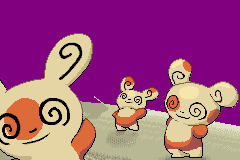
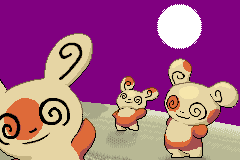
Title screen no longer has corrupted palettes
The problem with the palettes was that Tilemap Studio makes some very... ill-advised... decisions about how to handle palettes, and it seems to be abandonware, so those will probably never be fixed:

* It automatically sorts colors in order of descending brightness, optionally letting you control which color in the existing image is forced to be first.

* Its export to JASC-PAL is broken, emitting a 256-color palette with huge amounts of duplicate entries. Generally, hand-editing it to remove all but the last 16 colors will fix it.

* You get ONE chance to export a palette when converting an image to a tilemap. Forget, and you'll need to redo the entire conversion.

---

Aside from fixing the above, VRAM windows have been adjusted so that the background landscape isn't darkened; the blink rate on "PRESS START" was slowed; and the screen flashes to white before then showing the art. (Fades to and from white would be nice, but I'm out of time tonight.)

Changed region(s): [[0.6417, 0.0, 0.8458, 0.3125], [0.4083, 0.625, 0.4375, 0.6562], [0.3792, 0.5938, 0.4083, 0.625]]

diff --git a/src/title_screen.c b/src/title_screen.c
@@ -37,7 +37,7 @@ typedef struct {
    VRAMTilemap ashfall_tilemap;
    
    VRAMTile ALIGNED(BG_CHAR_SIZE) back_tiles[0xF0];
-   VRAMTile front_tiles[0x214];
+   VRAMTile front_tiles[0x229];
    VRAMTile ashfall;
 } VRAMTileLayout;
 
@@ -101,8 +101,8 @@ static const u32 sTitleScreenArtBgBackTilemap[] = INCBIN_U32("graphics/lu/title_
 
 static const u16 sPokemonLogoPalette[] = INCBIN_U16("graphics/title_screen/pokemon_logo.gbapal");
 static const u16 sTitleScreenBgArtPalettes[] = INCBIN_U16(
-   "graphics/lu/title_screen/art_back.gbapal",
-   "graphics/lu/title_screen/art_front.gbapal"
+   "graphics/lu/title_screen/art_back_tiles.gbapal",
+   "graphics/lu/title_screen/art_front_tiles.gbapal"
 );
 
 static const struct BgTemplate sBgTemplates[] = {
@@ -133,6 +133,13 @@ static const struct BgTemplate sBgTemplates[] = {
       .priority      = 2,
       .baseTile      = 0, // baseTile only works with LoadBgTiles, not for loading compressed tile(map)s
    },
+   //
+   // TODO: If BG layer 2 is an affine layer (which it is), then BG layer 3 can only 
+   //       be an affine layer or disabled. Affine is fine for our purposes -- we can 
+   //       look into adjusting its translation and scale that way -- but for now, we 
+   //       have BG3 disabled. Research `DISPCNT_MODE_1` for info on how to control 
+   //       which layers are affine, and Ctrl + F for where it's used below.
+   //
    {  // Ashfall BG layer
       .bg = 3,
       .charBaseIndex = VRAM_BG_CharBaseIndex(VRAMTileLayout, ashfall),
@@ -487,8 +494,8 @@ static void SpriteCB_PressStartCopyrightBanner(struct Sprite *sprite)
 {
     if (sprite->sAnimate == TRUE)
     {
-        // Alternate between hidden and shown every 16th frame
-        if (++sprite->sTimer & 16)
+        // Alternate between hidden and shown every 32th frame
+        if (++sprite->sTimer & 32)
             sprite->invisible = FALSE;
         else
             sprite->invisible = TRUE;
@@ -586,7 +593,7 @@ static void SpriteCB_PokemonLogoShine(struct Sprite *sprite)
     else
     {
         // Sprite has moved fully offscreen
-        gPlttBufferFaded[0] = RGB_BLACK;
+        gPlttBufferFaded[0] = RGB_WHITE;
         DestroySprite(sprite);
     }
 }
@@ -733,12 +740,12 @@ void CB2_InitTitleScreen(void)
         break;
     }
     case 3:
-        //BeginNormalPaletteFade(PALETTES_ALL, 1, 16, 0, RGB_WHITEALPHA);
+        BeginNormalPaletteFade(PALETTES_ALL, 1, 16, 0, RGB_WHITEALPHA);
         SetVBlankCallback(VBlankCB);
         gMain.state = 4;
         break;
     case 4:
-        //PanFadeAndZoomScreen(DISPLAY_WIDTH / 2, DISPLAY_HEIGHT / 2, 0x100, 0);
+        PanFadeAndZoomScreen(DISPLAY_WIDTH / 2, DISPLAY_HEIGHT / 2, 0x100, 0);
         SetGpuReg(REG_OFFSET_WIN0H, 0);
         SetGpuReg(REG_OFFSET_WIN0V, 0);
         SetGpuReg(REG_OFFSET_WIN1H, 0);
@@ -748,11 +755,6 @@ void CB2_InitTitleScreen(void)
         SetGpuReg(REG_OFFSET_BLDCNT, BLDCNT_TGT1_BG2 | BLDCNT_EFFECT_LIGHTEN);
         SetGpuReg(REG_OFFSET_BLDALPHA, 0);
         SetGpuReg(REG_OFFSET_BLDY, 12);
-        /*//
-        SetGpuReg(REG_OFFSET_BG0CNT, BGCNT_PRIORITY(3) | BGCNT_CHARBASE(2) | BGCNT_SCREENBASE(26) | BGCNT_16COLOR | BGCNT_TXT256x256);
-        SetGpuReg(REG_OFFSET_BG1CNT, BGCNT_PRIORITY(2) | BGCNT_CHARBASE(3) | BGCNT_SCREENBASE(27) | BGCNT_16COLOR | BGCNT_TXT256x256);
-        SetGpuReg(REG_OFFSET_BG2CNT, BGCNT_PRIORITY(1) | BGCNT_CHARBASE(0) | BGCNT_SCREENBASE(9) | BGCNT_256COLOR | BGCNT_AFF256x256);
-        //*/
 InitBgsFromTemplates(DISPCNT_MODE_1, sBgTemplates, ARRAY_COUNT(sBgTemplates));
 ShowBg(0);
 ShowBg(1);
@@ -864,7 +866,7 @@ static void Task_TitleScreenPhase2(u8 taskId)
     else
     {
         gTasks[taskId].tSkipToNext = TRUE;
-        SetGpuReg(REG_OFFSET_BLDCNT, BLDCNT_TGT1_BG1 | BLDCNT_EFFECT_BLEND | BLDCNT_TGT2_BG0 | BLDCNT_TGT2_BD);
+        SetGpuReg(REG_OFFSET_BLDCNT, BLDCNT_TGT2_BG1 | BLDCNT_EFFECT_BLEND | BLDCNT_TGT2_BG0 | BLDCNT_TGT2_BD);
         SetGpuReg(REG_OFFSET_BLDALPHA, BLDALPHA_BLEND(6, 15));
         SetGpuReg(REG_OFFSET_BLDY, 0);
         SetGpuReg(REG_OFFSET_DISPCNT, DISPCNT_MODE_1
@@ -926,7 +928,8 @@ static void Task_TitleScreenPhase3(u8 taskId)
         if (++gTasks[taskId].tCounter & 1)
         {
             gTasks[taskId].tBg1Y++;
-            gBattle_BG1_Y = gTasks[taskId].tBg1Y / 2;
+            //gBattle_BG1_Y = gTasks[taskId].tBg1Y / 2;
+            gBattle_BG1_Y = 0;
             gBattle_BG1_X = 0;
         }
         UpdateLegendaryMarkingColor(gTasks[taskId].tCounter);
